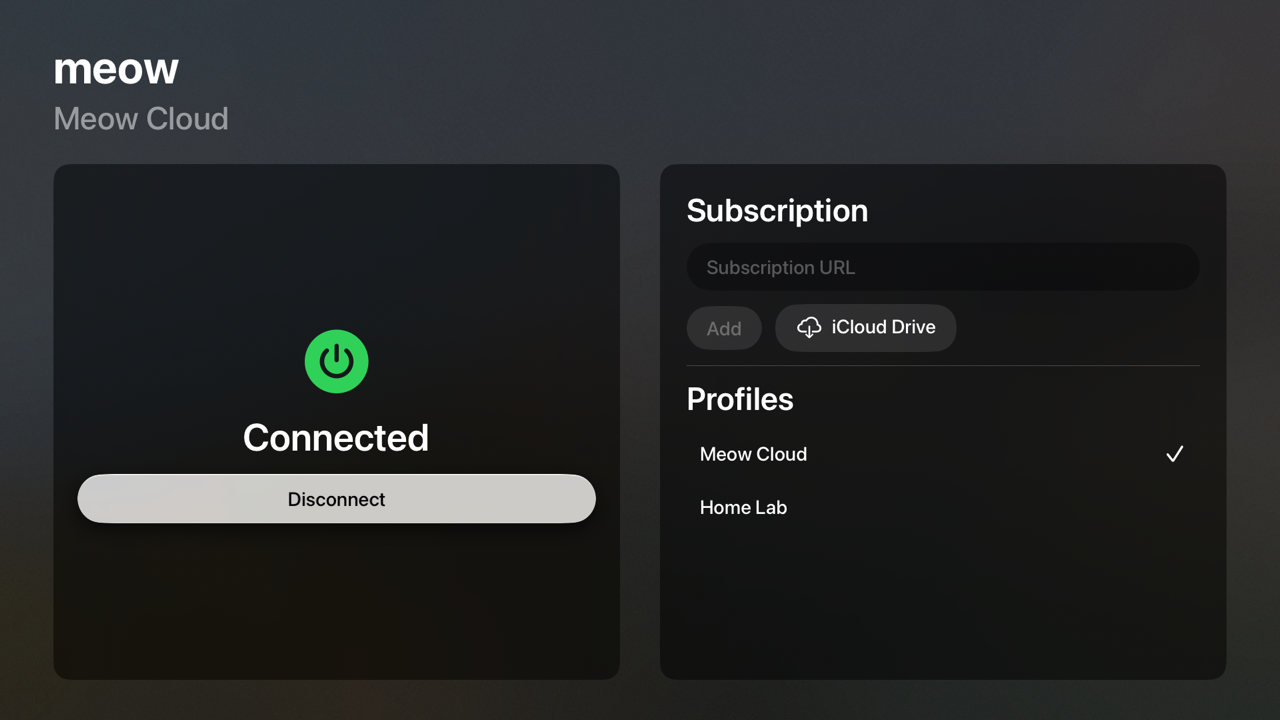
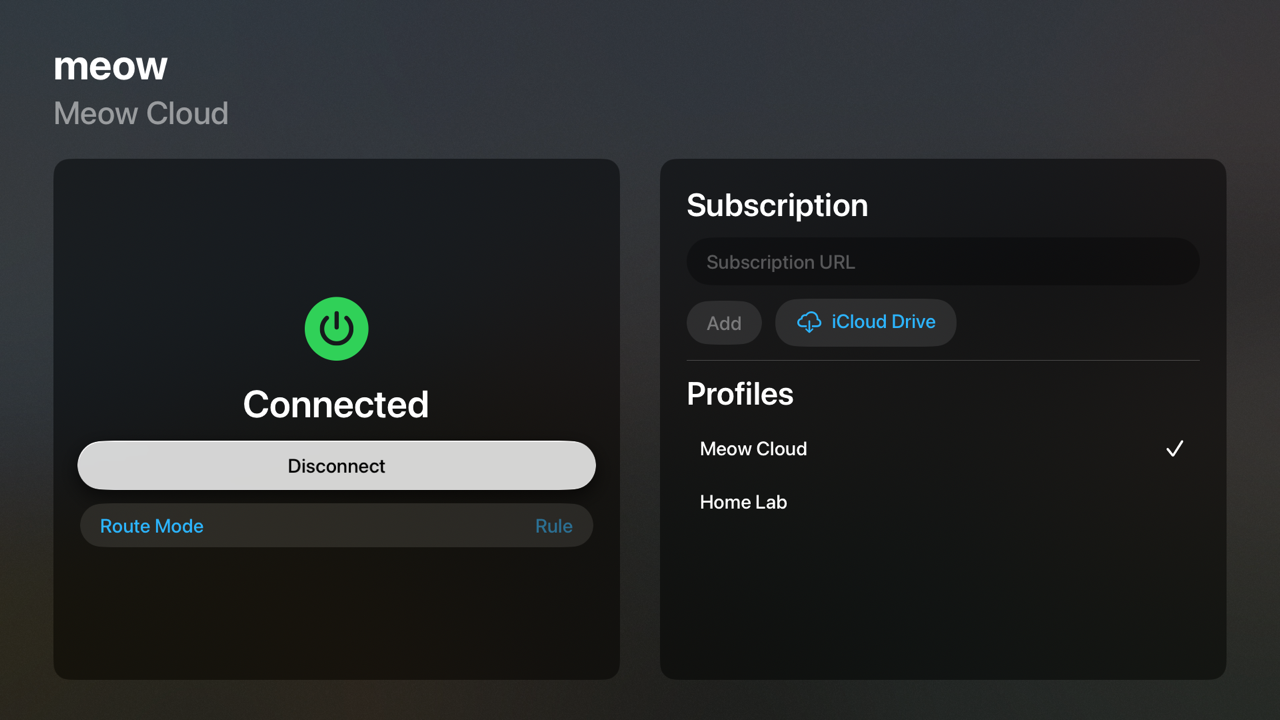
feat(tvos): switch the route mode from the Apple TV screen (#417)
The Apple TV app ran in whatever `mode:` the profile set, with nothing
on screen to change it. A row under the connect button now shows the
running engine's mode and opens a menu to switch between Rule, All and
Direct, over the same `GET` / `PATCH /configs` the iOS picker uses.

A menu rather than iOS's segmented picker: a tvOS segment is selected
by focus moving onto it, so passing the control with the remote would
switch modes.

As on iOS the mode is the running engine's: every engine start goes
back to the profile's `mode:`, and the row is disabled while
disconnected. A read still in flight when the tunnel stops is dropped,
so the disabled row never shows a mode.

The README's Apple TV screenshot is retaken with the new row.

diff --git a/AppTV/Sources/TVRouteModeMenu.swift b/AppTV/Sources/TVRouteModeMenu.swift
@@ -1,0 +1,121 @@
+import MeowModels
+import SwiftUI
+
+/// The running engine's route mode — Rule, All or Direct — as one row under
+/// the connect button: the mode on its trailing edge, and a menu to switch it.
+///
+/// A menu, not the segmented picker iOS has (`EngineOverviewSection`): on
+/// tvOS a segment is selected by focus moving onto it, so reaching past the
+/// control with the remote would reroute the traffic on the way. A menu
+/// switches on a click.
+///
+/// As on iOS the mode belongs to the running engine. Every engine start — a
+/// connect, the reload a profile switch sends — begins in the profile's
+/// `mode:` again, and this row then shows that one.
+struct TVRouteModeMenu: View {
+    @Environment(AppModel.self) private var appModel
+    @Environment(VpnManager.self) private var vpnManager
+    @Environment(MeowAPI.self) private var meowAPI
+    @Environment(\.scenePhase) private var scenePhase
+
+    /// What the engine last said it runs in. `nil` with no engine to ask,
+    /// and until a started one has answered.
+    @State private var mode: RouteMode?
+
+    var body: some View {
+        Menu {
+            Picker("home.routeMode.title", selection: selection) {
+                ForEach(RouteMode.allCases) { mode in
+                    Text(mode.title).tag(RouteMode?.some(mode))
+                }
+            }
+        } label: {
+            HStack(spacing: 12) {
+                Text("home.routeMode.title")
+                Spacer(minLength: 0)
+                if let mode {
+                    Text(mode.title)
+                        .foregroundStyle(.secondary)
+                }
+            }
+            .frame(maxWidth: .infinity)
+        }
+        // Only a running engine has a mode to switch. Disabled, the row
+        // can't take focus, which the connect button above it always can.
+        .disabled(!isConnected)
+        .accessibilityIdentifier("tv.routeMode")
+        .task(id: vpnManager.stage) {
+            await refresh()
+        }
+        // An engine restarted in place, or reloaded for another profile, is
+        // back in that profile's mode while the stage stays `.connected`.
+        .task(id: appModel.replayGeneration) {
+            await refresh()
+        }
+        // The tunnel outlives the app: catch up on what the engine did while
+        // this was in the background.
+        .onChange(of: scenePhase) { _, phase in
+            guard phase == .active else { return }
+            Task { await refresh() }
+        }
+    }
+
+    private var isConnected: Bool {
+        vpnManager.stage == .connected
+    }
+
+    /// Reads the row's mode and sends a pick to the engine, so that a
+    /// `refresh()` writing `mode` doesn't send it back.
+    private var selection: Binding<RouteMode?> {
+        Binding(
+            get: { mode },
+            set: { picked in
+                guard let picked, picked != mode else { return }
+                let previous = mode
+                mode = picked
+                Task { await apply(picked, replacing: previous) }
+            },
+        )
+    }
+
+    private func refresh() async {
+        guard isConnected else {
+            mode = nil
+            return
+        }
+        do {
+            let wire = try await meowAPI.getConfigs().mode
+            // An answer that arrives after the tunnel went down describes
+            // an engine that is gone.
+            guard isConnected else { return }
+            mode = RouteMode(wire: wire)
+        } catch {
+            // Keeps what the row shows; the next refresh reads it again.
+        }
+    }
+
+    private func apply(_ picked: RouteMode, replacing previous: RouteMode?) async {
+        do {
+            try await meowAPI.setMode(picked.wire)
+        } catch {
+            // The engine didn't take it: back to the mode it ran in, unless
+            // a later pick has replaced this one, then ask the engine.
+            if mode == picked {
+                mode = previous
+            }
+            await refresh()
+        }
+    }
+}
+
+private extension RouteMode {
+    /// The names iOS gives the modes (`RouteMode.label` in
+    /// `EngineOverviewSection`, which this target doesn't compile).
+    var title: LocalizedStringKey {
+        switch self {
+        case .rule: "home.routeMode.rule"
+        case .all: "home.routeMode.all"
+        case .direct: "home.routeMode.direct"
+        }
+    }
+}

diff --git a/AppTV/Sources/TVContentView.swift b/AppTV/Sources/TVContentView.swift
@@ -2,8 +2,8 @@ import MeowModels
 import SwiftData
 import SwiftUI
 
-/// The whole tvOS app in one screen: title, connect button, subscription-URL
-/// field, profile list.
+/// The whole tvOS app in one screen: title, connect button, route mode,
+/// subscription-URL field, profile list.
 ///
 /// A re-implementation rather than a reuse of `ContentView`: everything under
 /// `App/Sources/Views` is iPhone-shaped (tab bar, sheets, swipe actions, the
@@ -105,6 +105,8 @@ struct TVContentView: View {
                     .foregroundStyle(.secondary)
                     .multilineTextAlignment(.center)
             }
+
+            TVRouteModeMenu()
         }
         .padding(40)
         .frame(maxWidth: .infinity, maxHeight: .infinity)

diff --git a/AppTV/README.md b/AppTV/README.md
@@ -31,6 +31,8 @@ Apple TV needs instead:
 - `MeowTVApp.swift` — `@main`, identical service graph to `MeowApp`.
 - `TVContentView.swift` — title, connect button, subscription-URL field,
   profile list (long-press a row to refresh or delete it).
+- `TVRouteModeMenu.swift` — the row under the connect button: the running
+  engine's route mode (Rule / All / Direct) and a menu to switch it.
 - `TVICloudImportView.swift` — "Import from iCloud Drive": the configs the
   iPhone app relayed (see below).
 - `Assets.xcassets` — the tvOS accent and launch colors, copied from the iOS
@@ -40,7 +42,12 @@ Layout follows the tvOS HIG: no padding beyond the system TV safe area, one
 `focusSection()` per panel, focus lands on Connect at launch, the connect
 button is never `.disabled` (a disabled control can't take focus; with no
 profile it sends focus to the URL field instead), and errors are alerts
-rather than inline banners.
+rather than inline banners. The route mode is a menu, not the segmented
+picker iOS has: a tvOS segment is selected by focus moving onto it, so
+passing the control with the remote would switch modes, and a menu switches
+on a click. It is the running engine's mode, as on iOS — each engine start
+goes back to the profile's `mode:` — so the row is disabled while
+disconnected.
 
 The connect/disconnect sequencing in `TVContentView.toggle()` is a deliberate
 copy of `GlobalVpnSwitchBar.toggle()`; the IPC intent must be queued before
